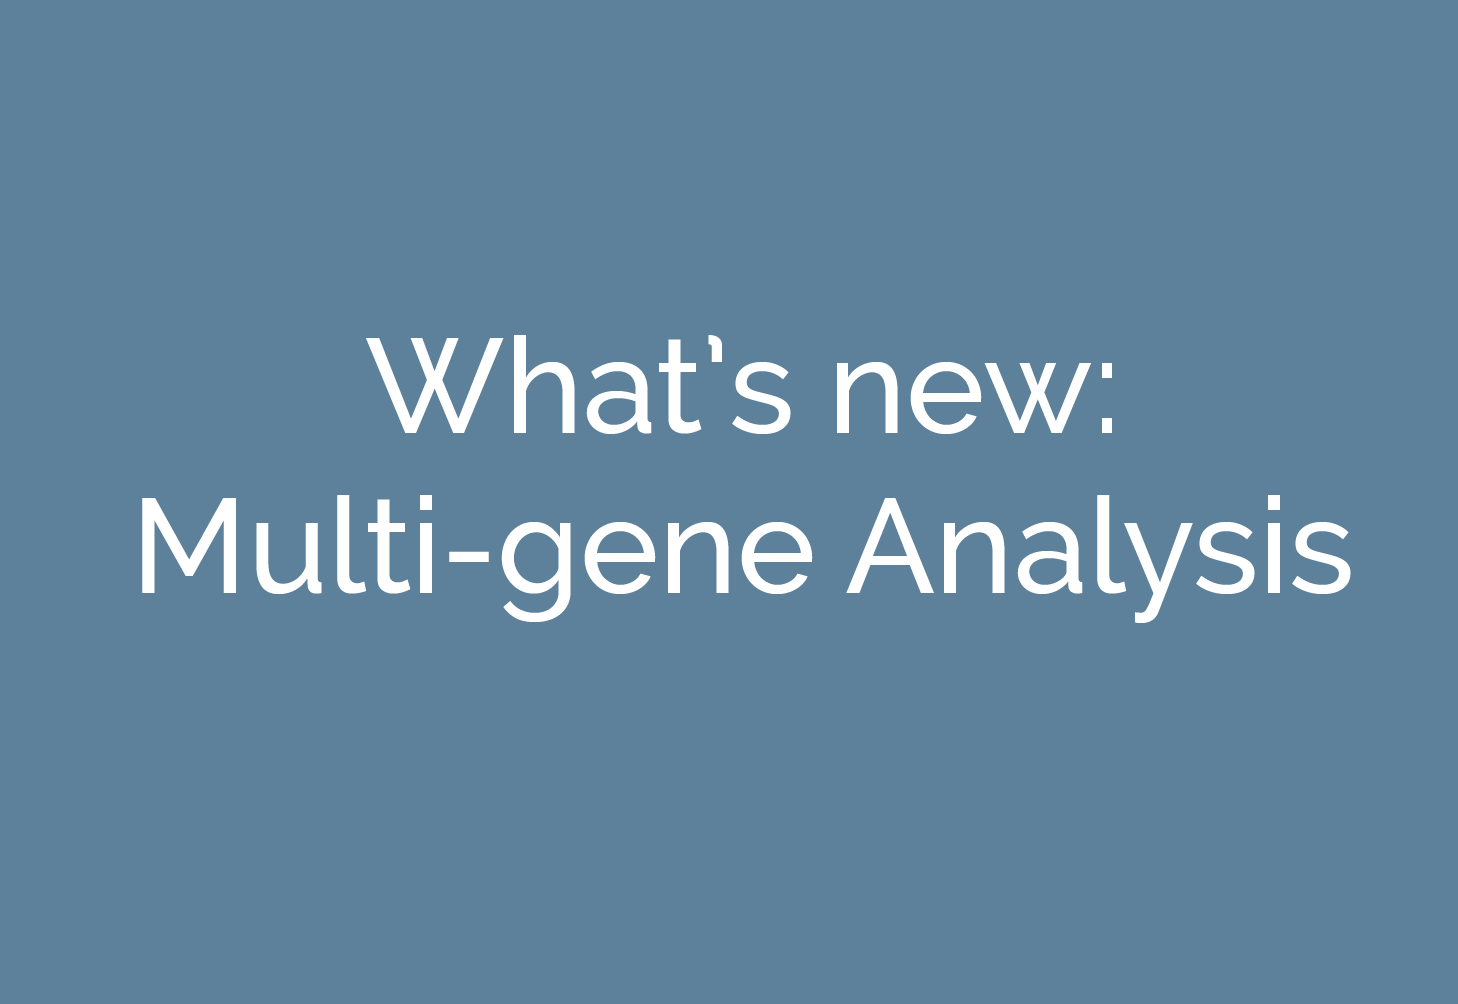
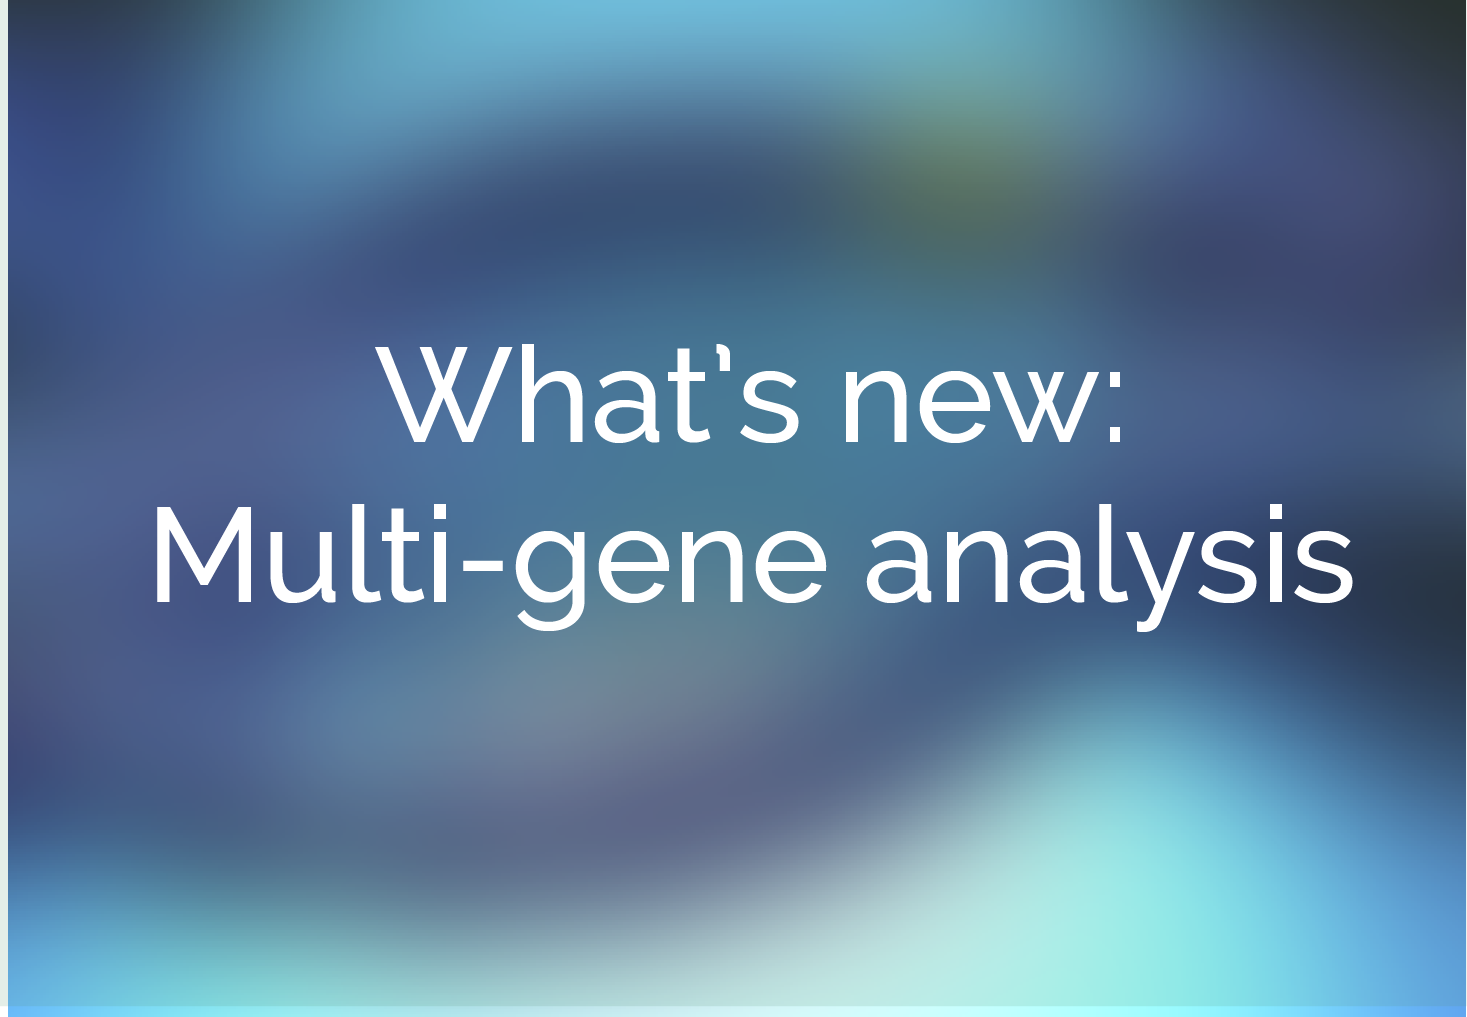
Revise welcome screen.

diff --git a/index.html b/index.html
@@ -469,27 +469,19 @@
 
     <div id="welcome-area" class="hide">
       <div id="welcome-panel" >
-        <div id="welcome-label" style="">
-          Welcome to gene.iobio.
-        </div>  
         <div id="welcome-label">
-          A tool for disease-causing variant discovery & interrogation 
+          A web tool for disease-causing variant interrogation 
         </div>  
         <div id="welcome-panel-content" style="display:flex;justify-content:space-around">
           <div class="description-paragraph">
             <ul>
 
-              <li>On the fly annotation
-                <ul>
-                  <li>Functional impact (e.g. VEP, Sift, Polyphen)</li>
-                  <li>Allele Frequency (e.g. 1000G, ExAC)</li>
-                  <li>Inheritance Mode</li>
-                </ul>
+              <li>Real-time analysis
               </li>
 
-              <li>Visualize Variants and Read Coverage together</li>
-              <li>Analyze Trios and affected/unaffected siblings</li>
-              <li>Instantly analyze VCF and BAM files both on your hard drive or on the web with no need to upload the entire file
+              <li>On-the-fly annotation</li>
+              <li>Integrated genomic visualizations</li>
+              <li>On-demand variant calling
               </li>
             </ui>
 
@@ -505,6 +497,9 @@
           </button>
           <button   class="btn btn-raised btn-default" onclick="$('#welcome-panel').addClass('hide');pageGuide.open()">
             <span style="">Take an app tour</span>
+          </button>
+          <button   class="btn btn-raised btn-default" onclick="$('#welcome-panel').addClass('hide');showDataDialog()">
+            <span style="">Start your analysis</span>
           </button>
         </div>
         <div>  

diff --git a/assets/css/site.css b/assets/css/site.css
@@ -750,7 +750,7 @@ a {
 
 #welcome-area {
   text-align: center;
-  margin-top: 50px;
+  margin-top: 100px;
   display: flex;
   justify-content: space-around; }
   #welcome-area #welcome-panel {
@@ -762,15 +762,15 @@ a {
     padding-right: 10px; }
     #welcome-area #welcome-panel #welcome-label {
       color: #5d809d;
-      font-size: 16px; }
+      font-size: 17px; }
     #welcome-area #welcome-panel .description-paragraph {
       text-align: left;
       margin-left: 20px;
       margin-right: 20px;
-      margin-top: 10px;
+      margin-top: 50px;
       color: #717171;
       font-size: 15px;
-      width: 50%; }
+      width: 40%; }
       #welcome-area #welcome-panel .description-paragraph li {
         padding-bottom: 10px; }
         #welcome-area #welcome-panel .description-paragraph li li {
@@ -781,7 +781,8 @@ a {
       margin-left: 7px;
       margin-right: 7px; }
     #welcome-area #welcome-panel #welcome-screencast-panel {
-      width: 50%;
+      width: 60%;
+      height: 200px;
       margin-top: 20px;
       margin-bottom: 20px;
       background-color: grey;
@@ -790,7 +791,7 @@ a {
       background-image: url("../../assets/images/screencast-multigene-analysis.png");
       background-size: cover; }
       #welcome-area #welcome-panel #welcome-screencast-panel #play-button {
-        margin-top: 90px;
+        margin-top: 50px;
         margin-bottom: auto;
         font-size: 100px;
         cursor: pointer;

diff --git a/assets/css/sass/site.sass b/assets/css/sass/site.sass
@@ -892,7 +892,7 @@ a
 
 #welcome-area
   text-align: center
-  margin-top: 50px
+  margin-top: 100px
   display: flex
   justify-content: space-around
 
@@ -907,16 +907,16 @@ a
 
     #welcome-label
       color: $app-color
-      font-size: 16px
+      font-size: 17px
 
     .description-paragraph
       text-align: left
       margin-left: 20px
       margin-right: 20px
-      margin-top: 10px
+      margin-top: 50px
       color: $text-color
       font-size: 15px
-      width: 50%
+      width: 40%
 
       li
         padding-bottom: 10px
@@ -931,7 +931,8 @@ a
       margin-right: 7px
 
     #welcome-screencast-panel
-      width: 50%
+      width: 60%
+      height: 200px
       margin-top: 20px
       margin-bottom: 20px
       background-color: grey
@@ -941,7 +942,7 @@ a
       background-size: cover
 
       #play-button
-        margin-top: 90px
+        margin-top: 50px
         margin-bottom: auto
         font-size: 100px
         cursor: pointer
